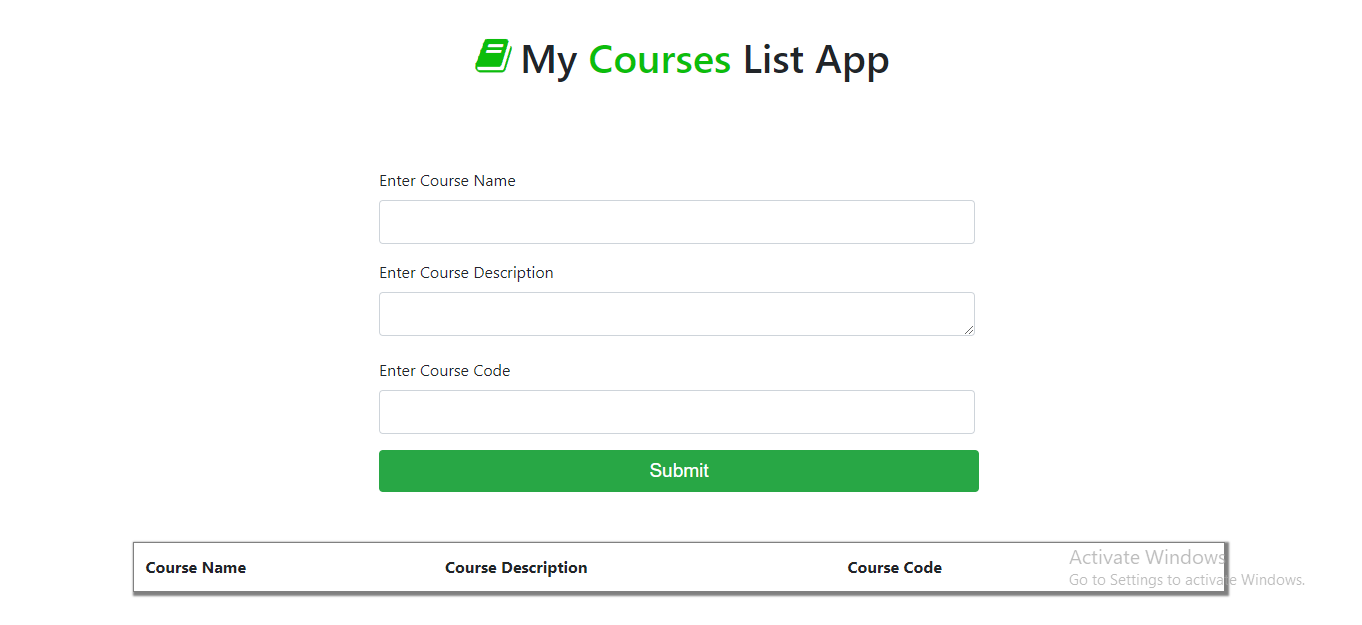
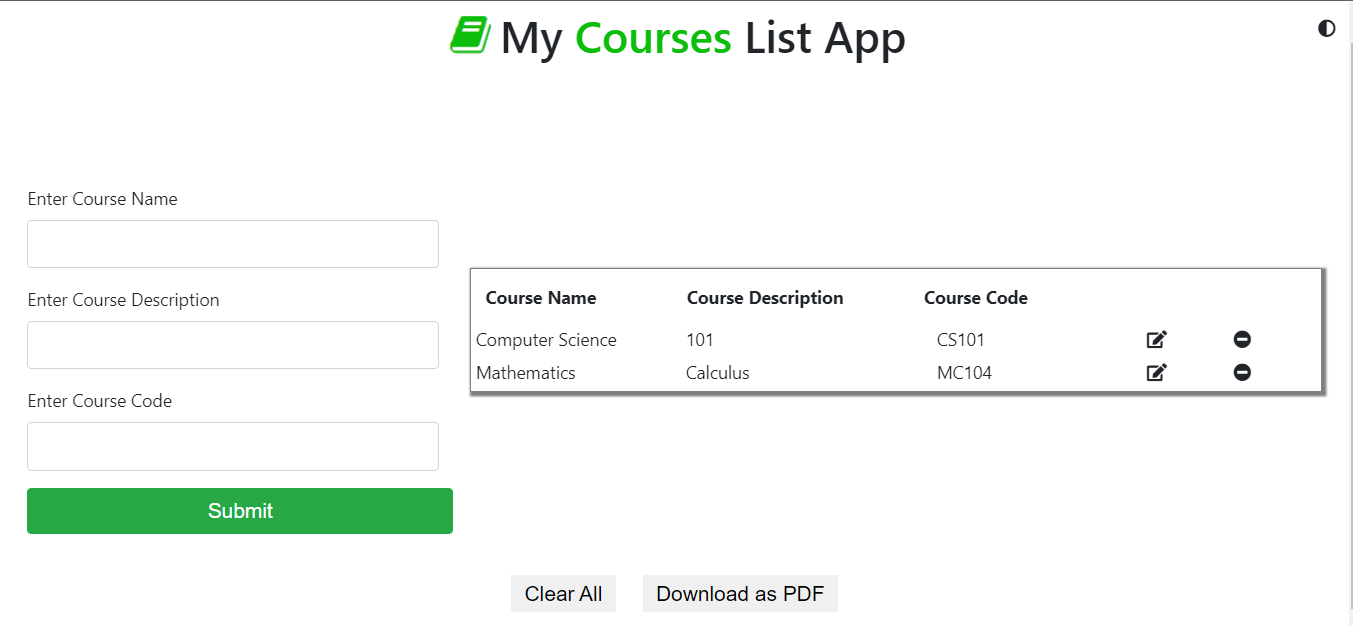
courselist

diff --git a/projects/courselist/index.html b/projects/courselist/index.html
@@ -7,6 +7,7 @@
     <link rel="stylesheet" href="style.css">
     <link rel="stylesheet" href="responsive.css">
     <script src="https://kit.fontawesome.com/992b6cd049.js" crossorigin="anonymous"></script>
+    <script src="https://unpkg.com/jspdf@latest/dist/jspdf.umd.min.js"></script>
     <script src="courselist.js" defer></script>
     <title>My Course List</title>
 </head>

diff --git a/projects/courselist/courselist.js b/projects/courselist/courselist.js
@@ -18,6 +18,7 @@ window.onload = () => {
     alert('Note: All data clears on reload');
 }
 
+
 toggleSwitch.addEventListener('click', () => {
     // // console.log(document.styleSheets.item(0).href.replace('style.css', 'dark.css'));
     // document.styleSheets.item(0).href.replace('style.css', 'dark.css')
